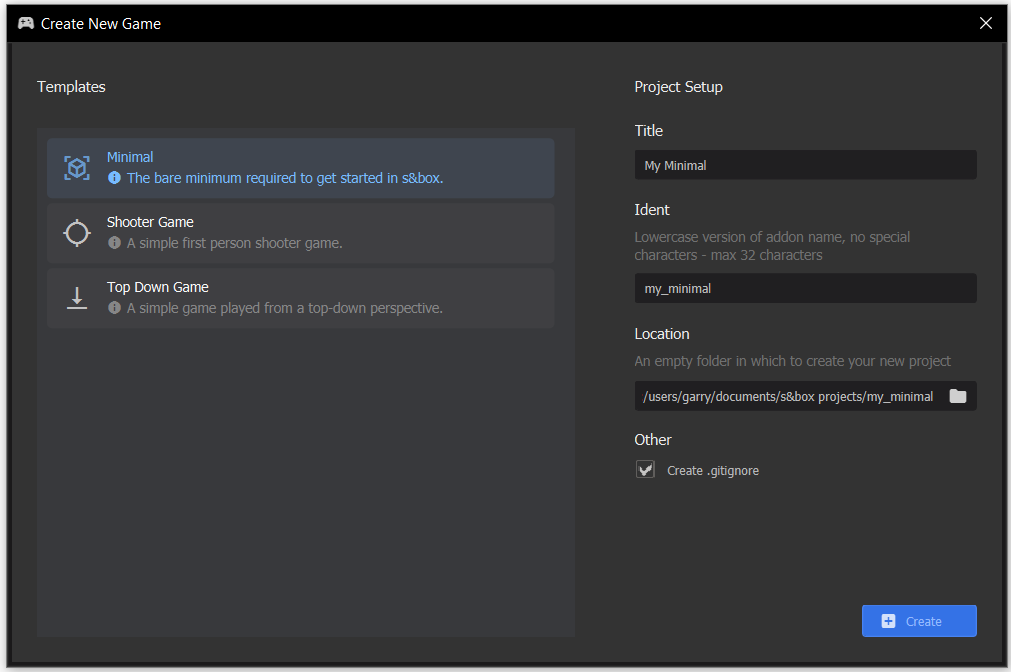
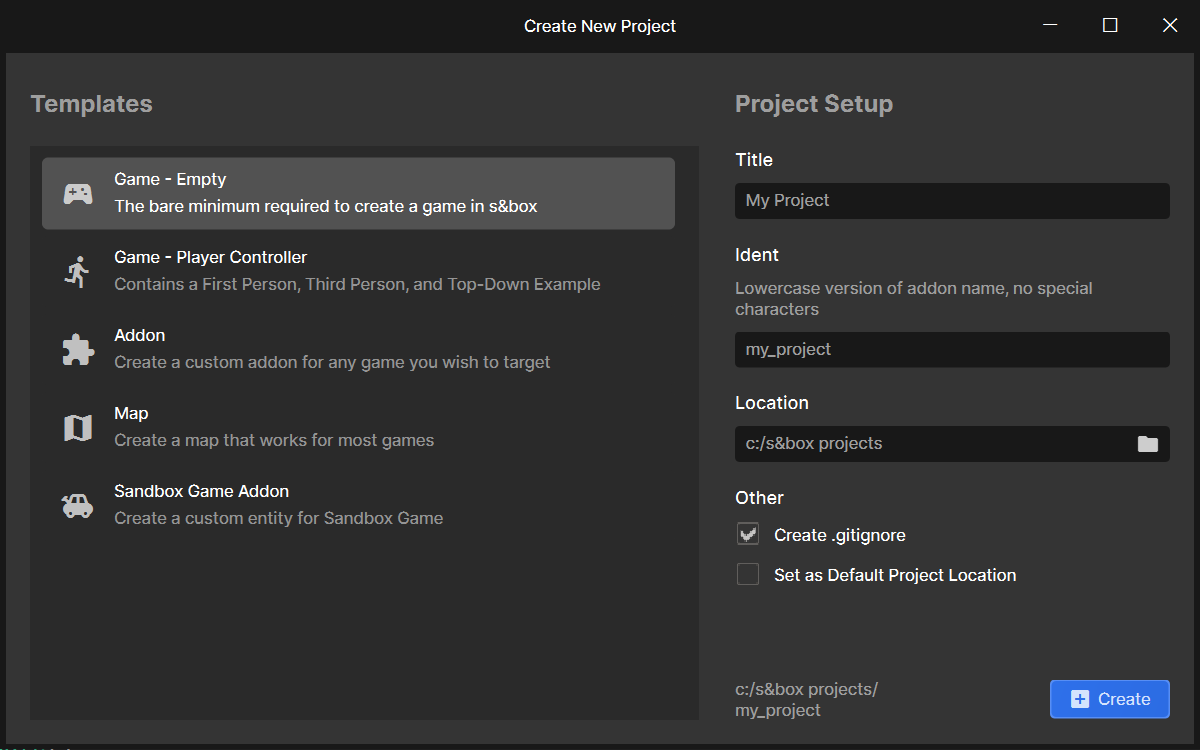
Update new project dialog image and minimal project name

Changed region(s): [[0.0, 0.0, 1.0, 1.0], [0.6133, 0.125, 0.7666, 0.1562]]

diff --git a/docs/getting-started/first-project.md b/docs/getting-started/first-project.md
@@ -7,7 +7,7 @@ updated: 2026-04-09
 
 # Your First Project
 
-The best way to learn is to do. Open the s&box editor and on the welcome screen, choose New Project. Create a Minimal Game project.
+The best way to learn is to do. Open the s&box editor and on the welcome screen, choose New Project. Create a Game - Empty project.
 
 ![](./images/creating-a-project.png)
 